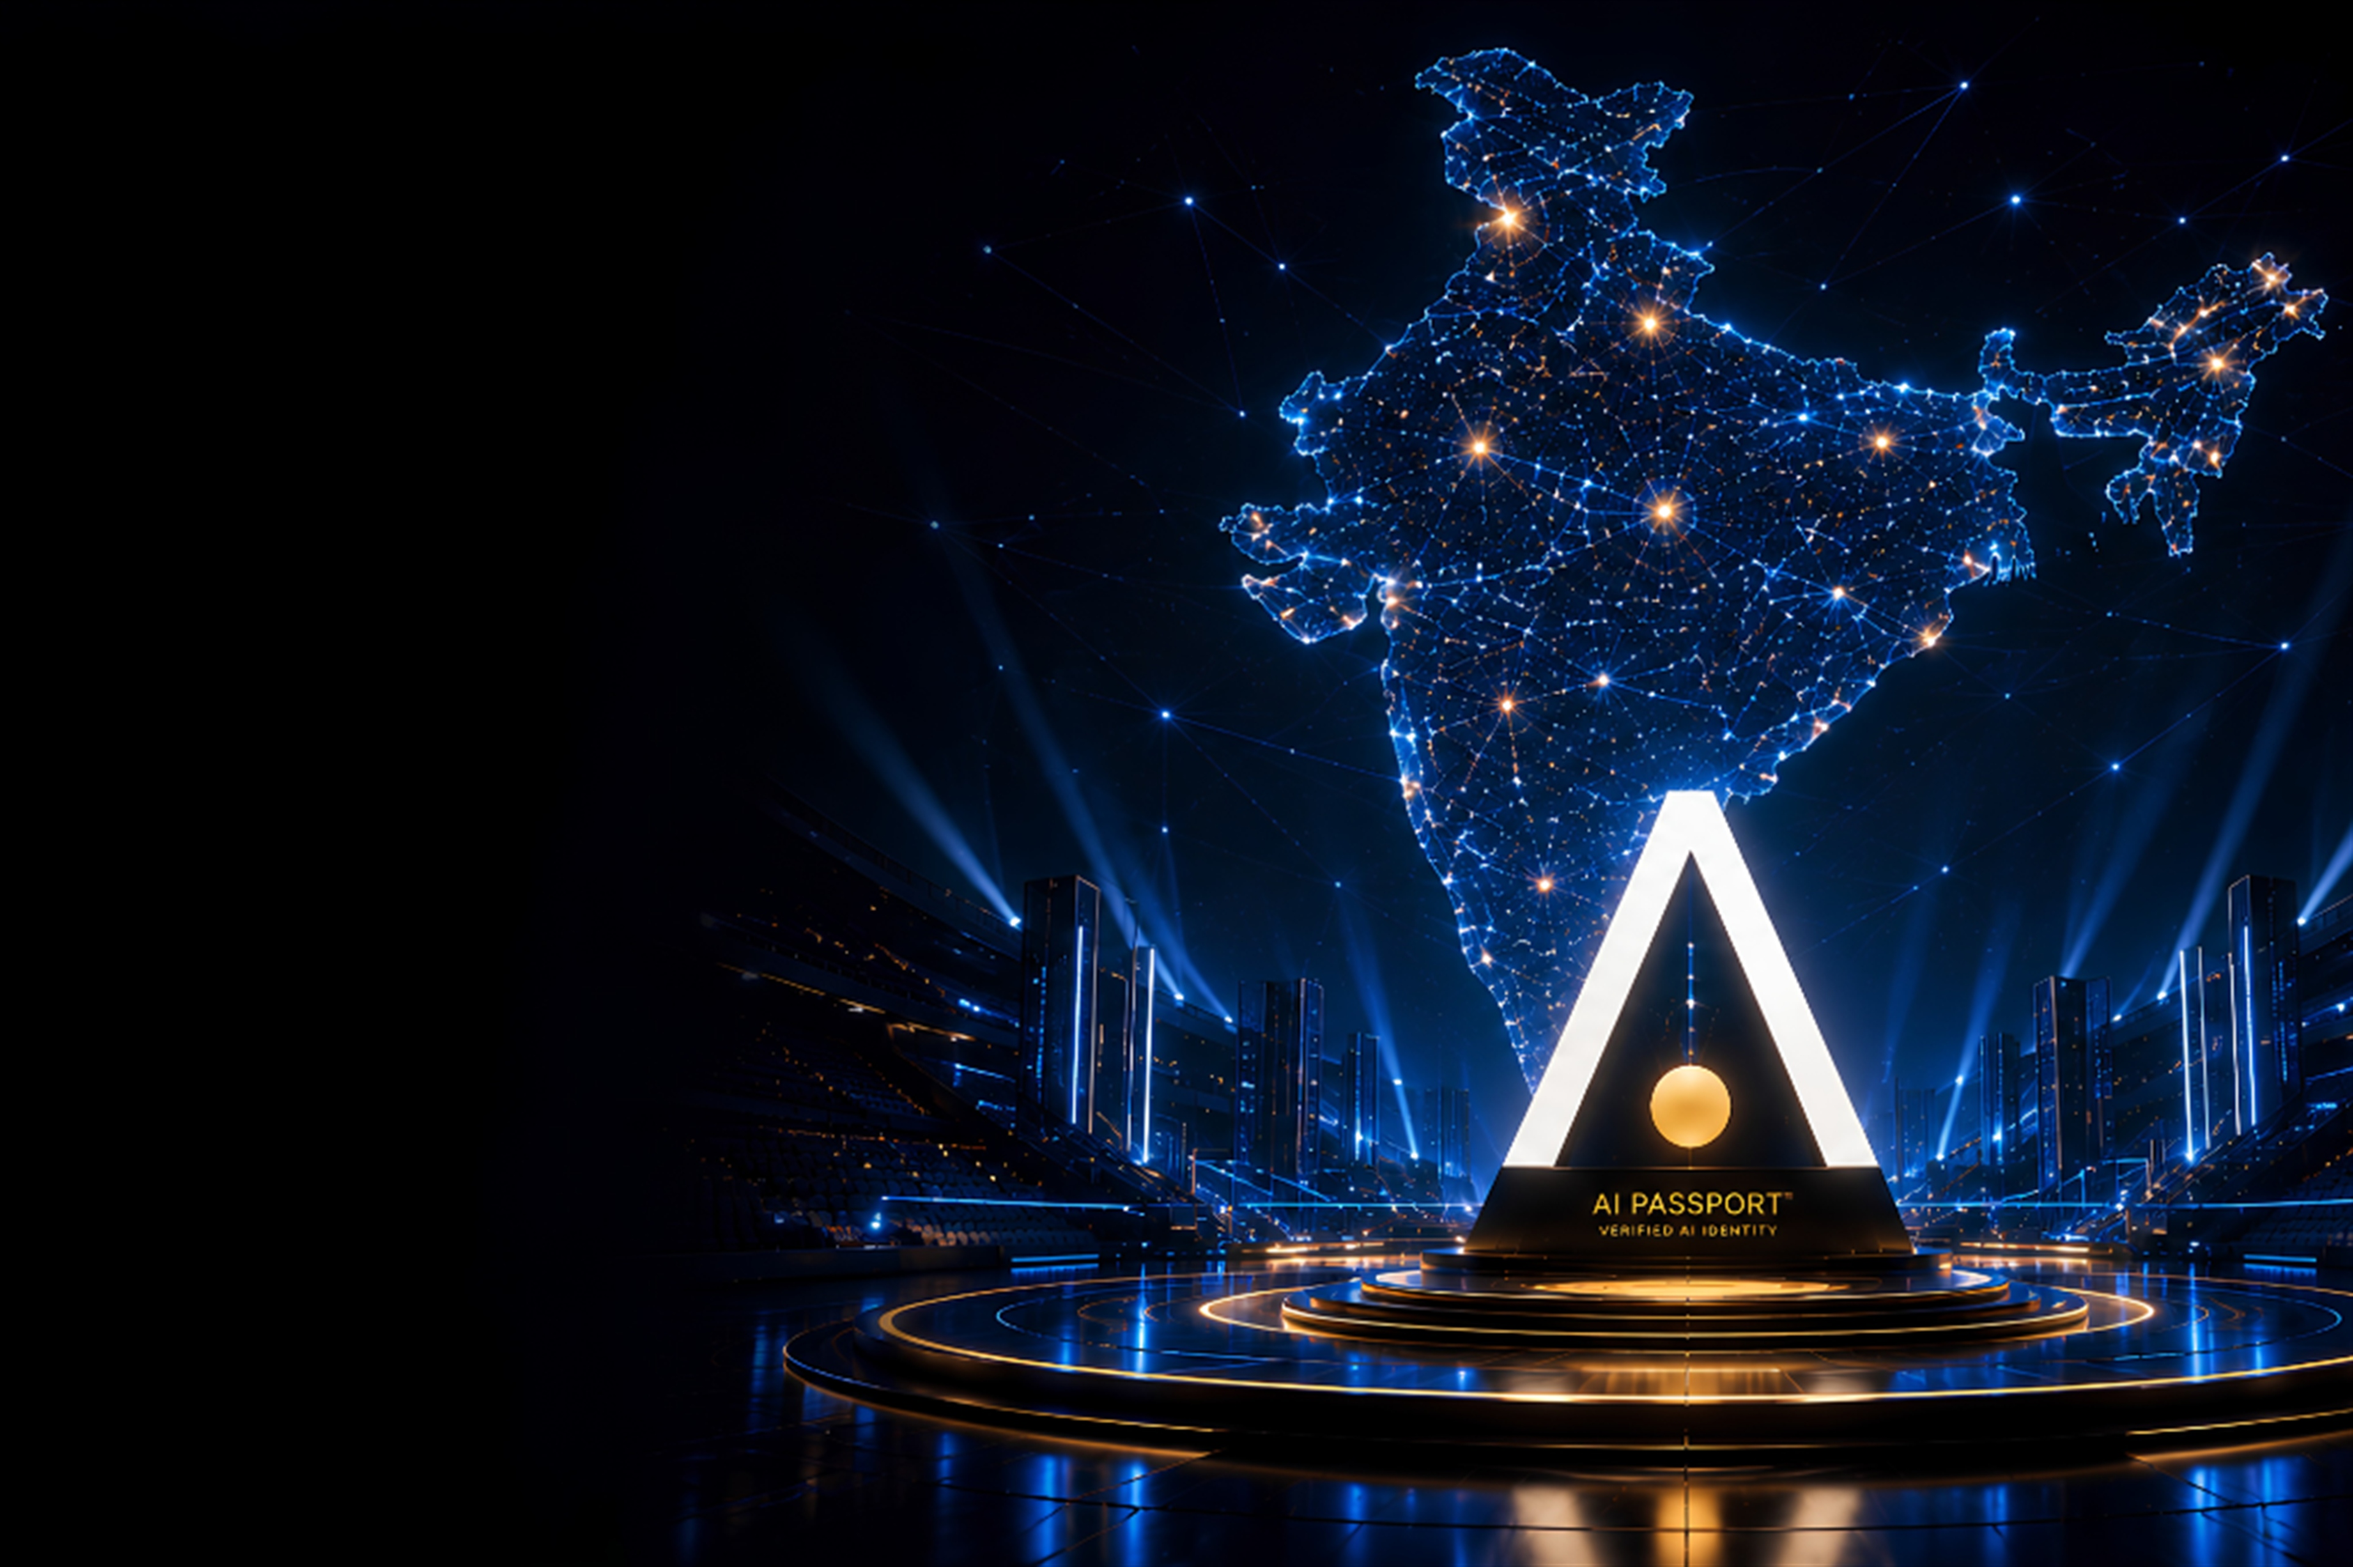
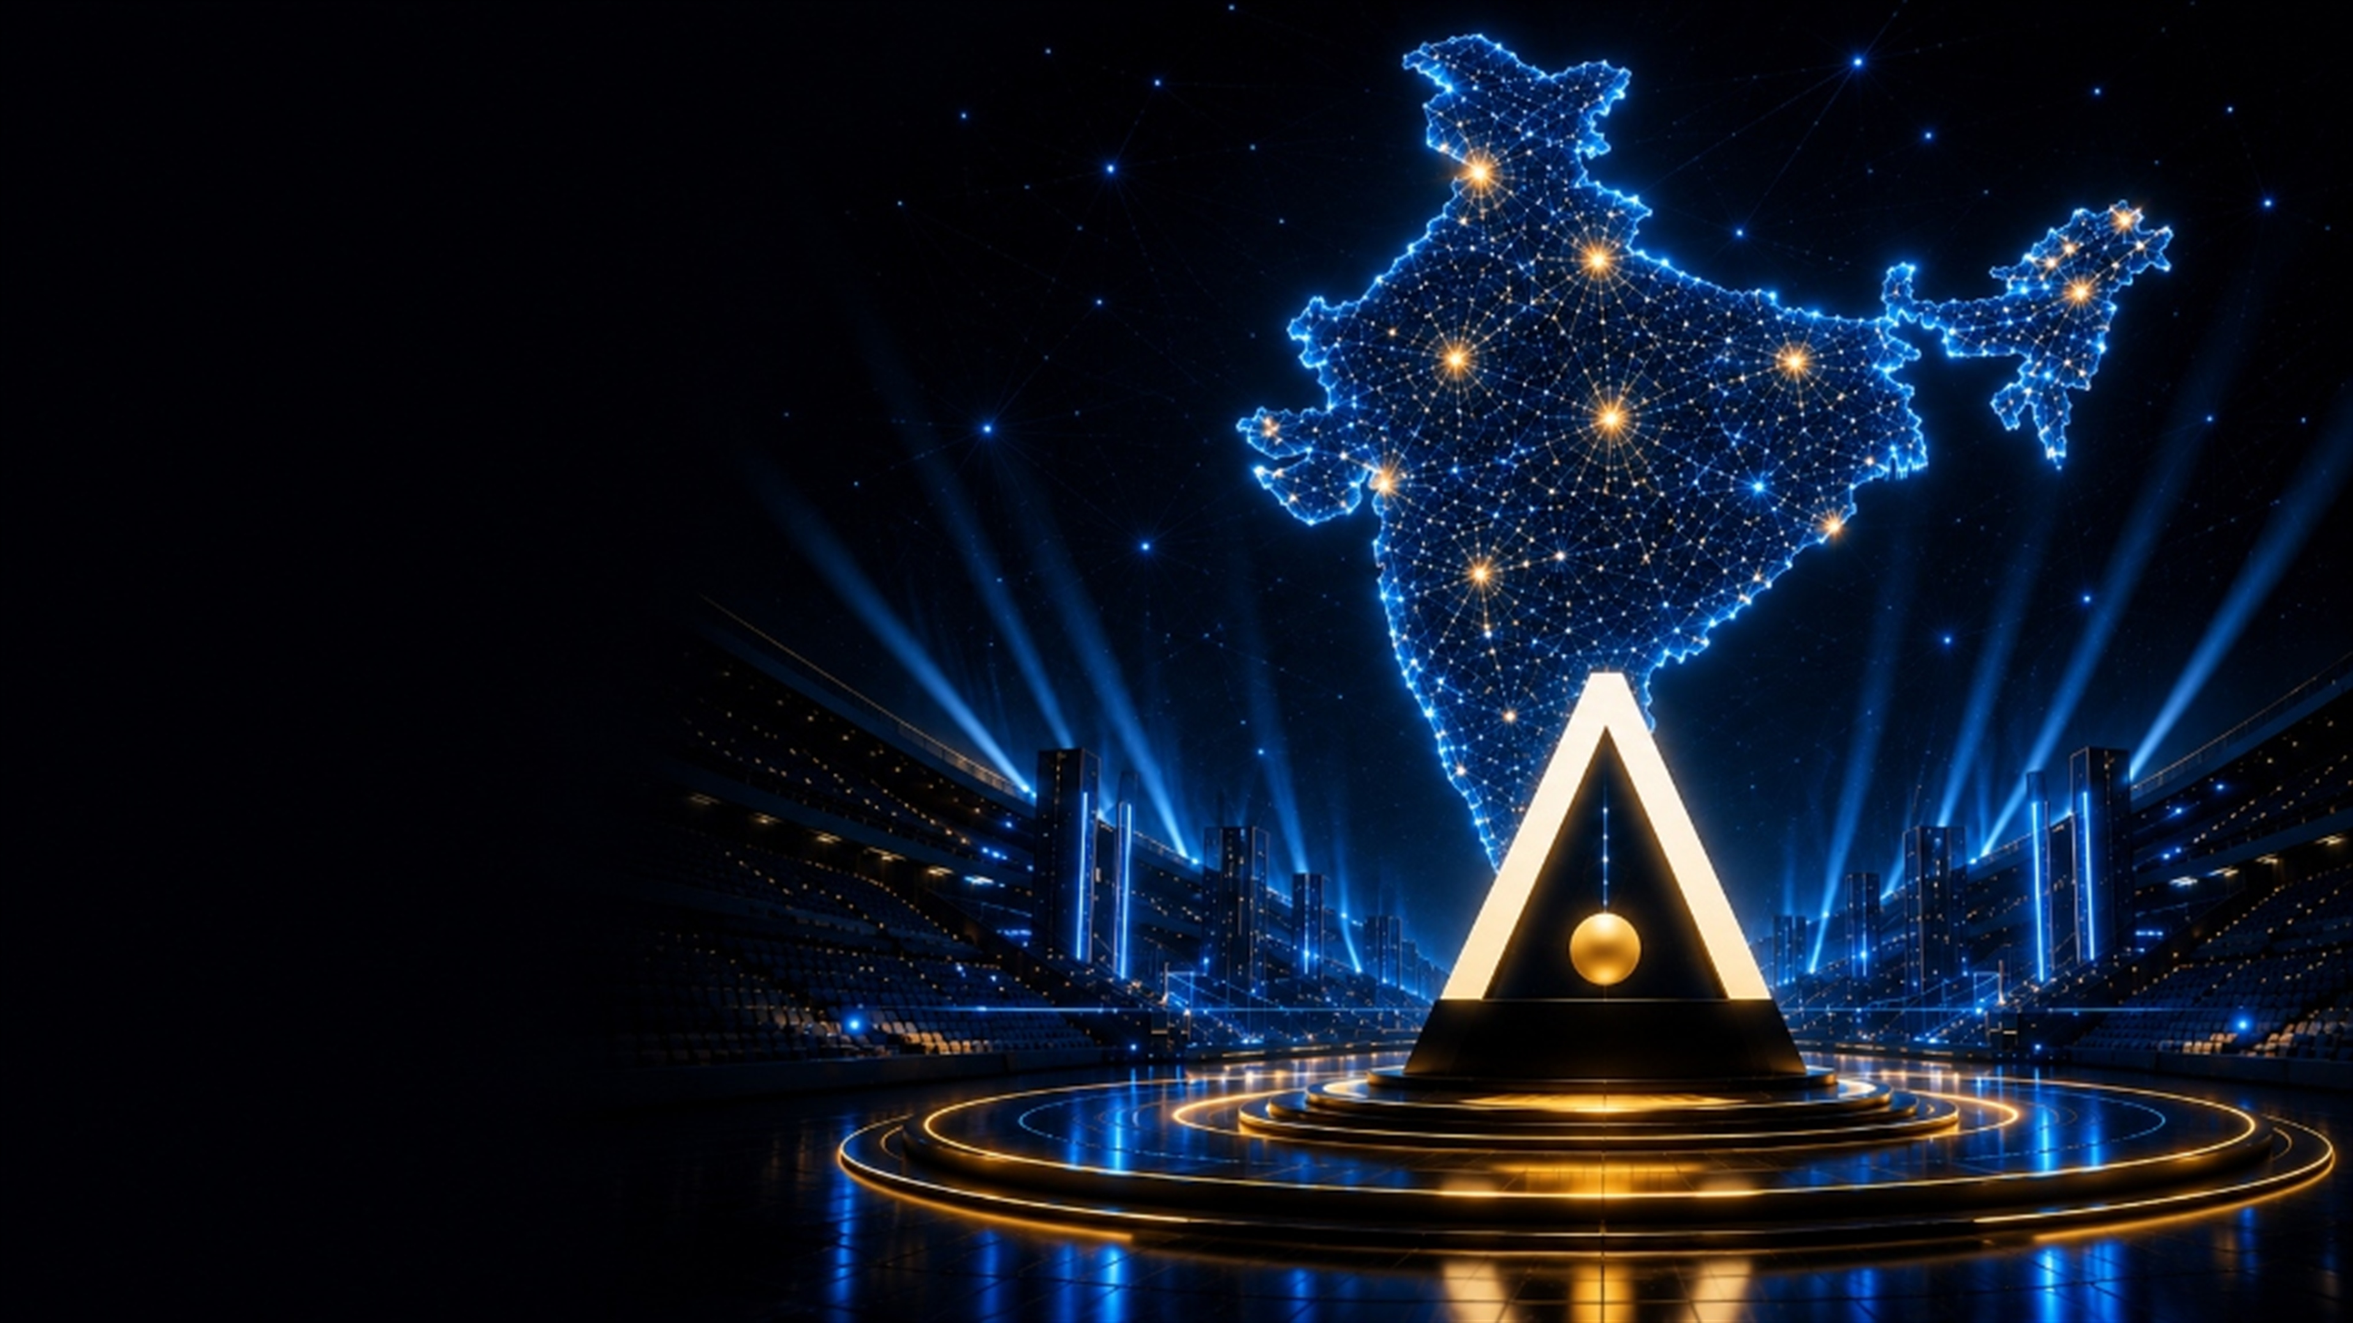
feat(olympiad): replace hero background image with newly uploaded high-definition 4K artwork asset

diff --git a/ai-olympiad.html b/ai-olympiad.html
@@ -714,7 +714,7 @@
 
   <!-- 01 — HERO (REBUILT SINGLE FULL-BLEED CINEMATIC ENVIRONMENT) -->
   <section class="olympiad-hero">
-    <img src="olympiad-hero-approved.jpg?v=3840" alt="AI Olympiad™ 2027 Hero Artwork" class="hero-bg-artwork">
+    <img src="olympiad-hero-approved.jpg?v=3840_new" alt="AI Olympiad™ 2027 Hero Artwork" class="hero-bg-artwork">
     <div class="hero-content-wrapper">
       <div class="hero-text-container">
         <div class="olympiad-badge">
